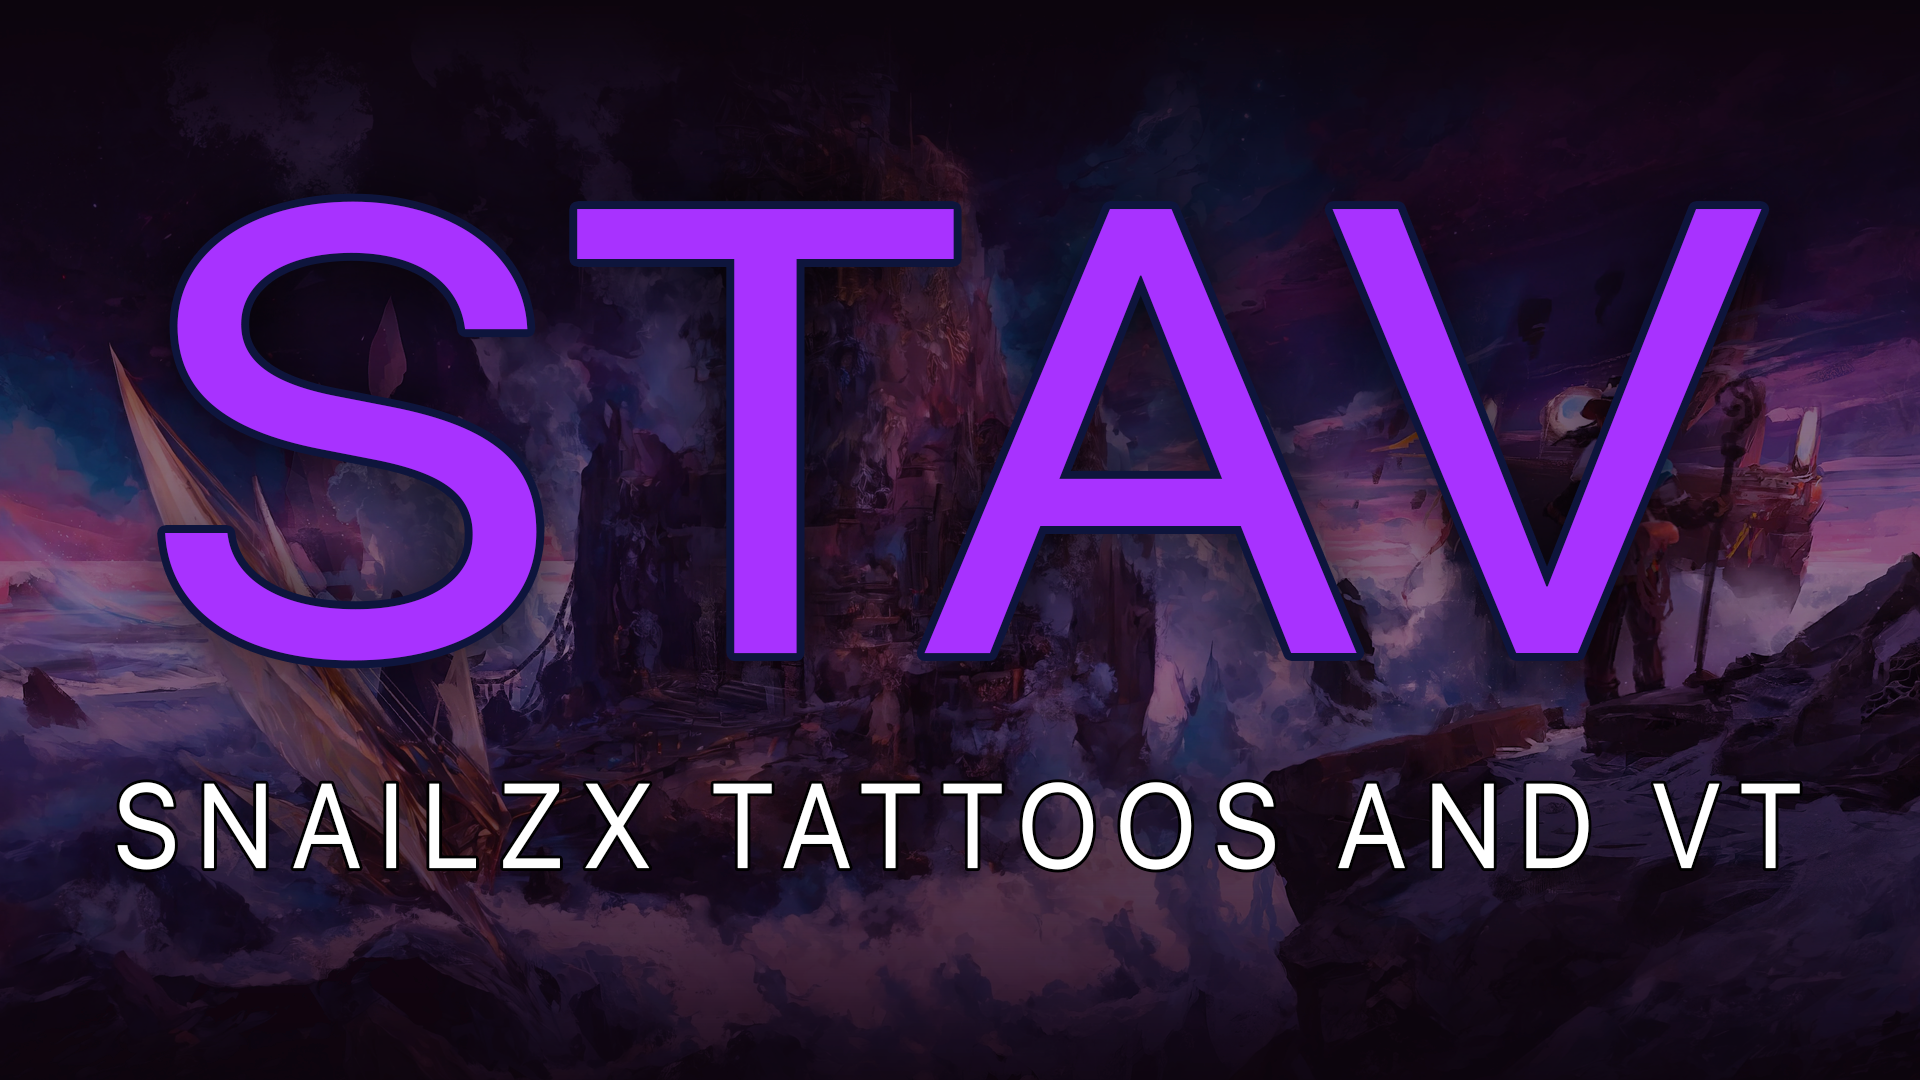
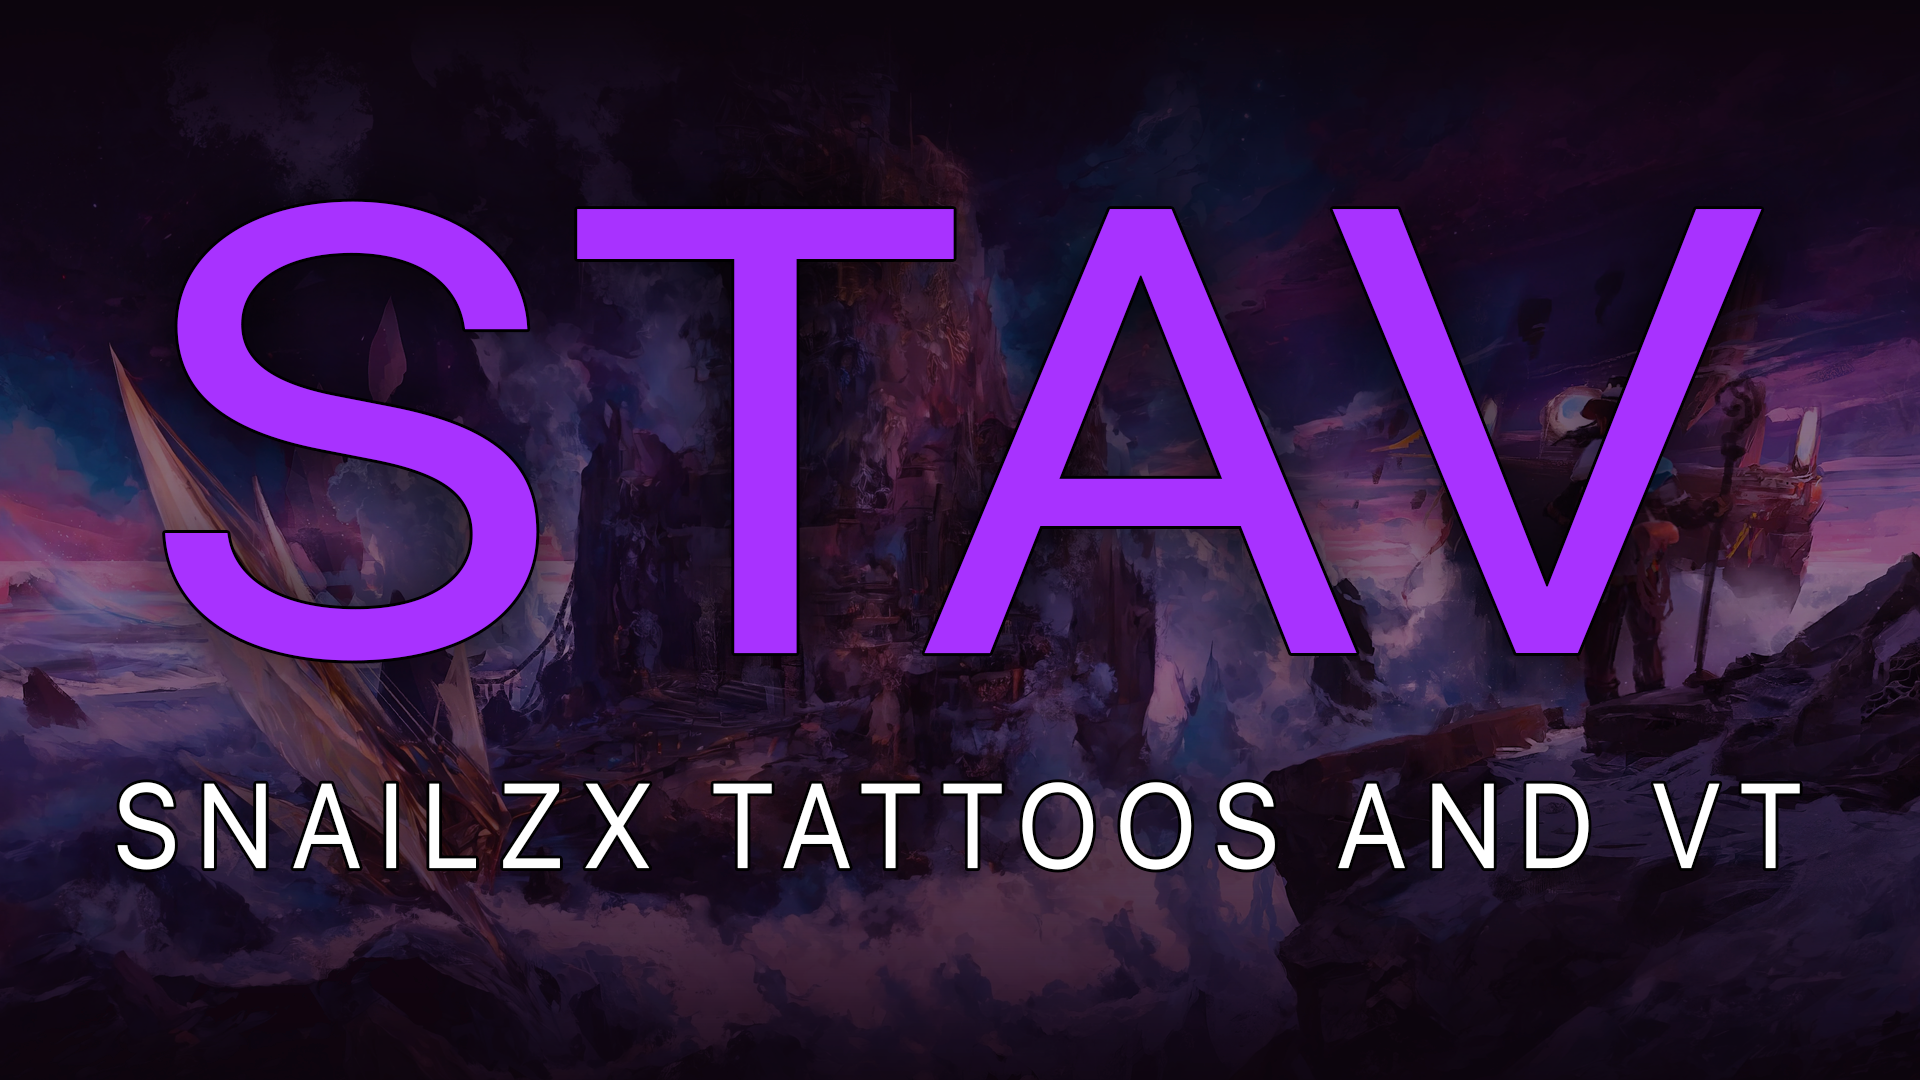
v1.0.0.0

diff --git a/changelog.md b/changelog.md
@@ -1,0 +1,23 @@
+# CHANGELOG.md
+
+## 1.0.0
+
+=== Script Extender
+-- Backend
+Charvis and head materials are now patched at runtime instead of being overriden in files
+Companions are now fully supported, this includes compatibility with Padme's UAC mod ensuring they keep her materials
+Due to the above, mods like EotB or body altering mods will work out of the box
+STAV CC elements handled by the UI panel should display correctly in every cutscene
+Code has been optimized and should be more performant
+--UI
+Added themes and shareable presets
+Advanced settings moved from the MCM tab to its own tab in the UI panel
+Added two buttons next to the sliders for easier use
+=== Internals
+Charvis lsf overrides have been removed
+Fixed BodyScars colouring
+Added Karlach's pulsing heartbeat
+Ensured default materials are set correctly
+Restored gith spots as a non tattoo slot
+Gave companions their own VTs allowing full body customization
+Virtual textures have been split into their own pak for easier updating and not forcing users to redownload a 1GB file every time